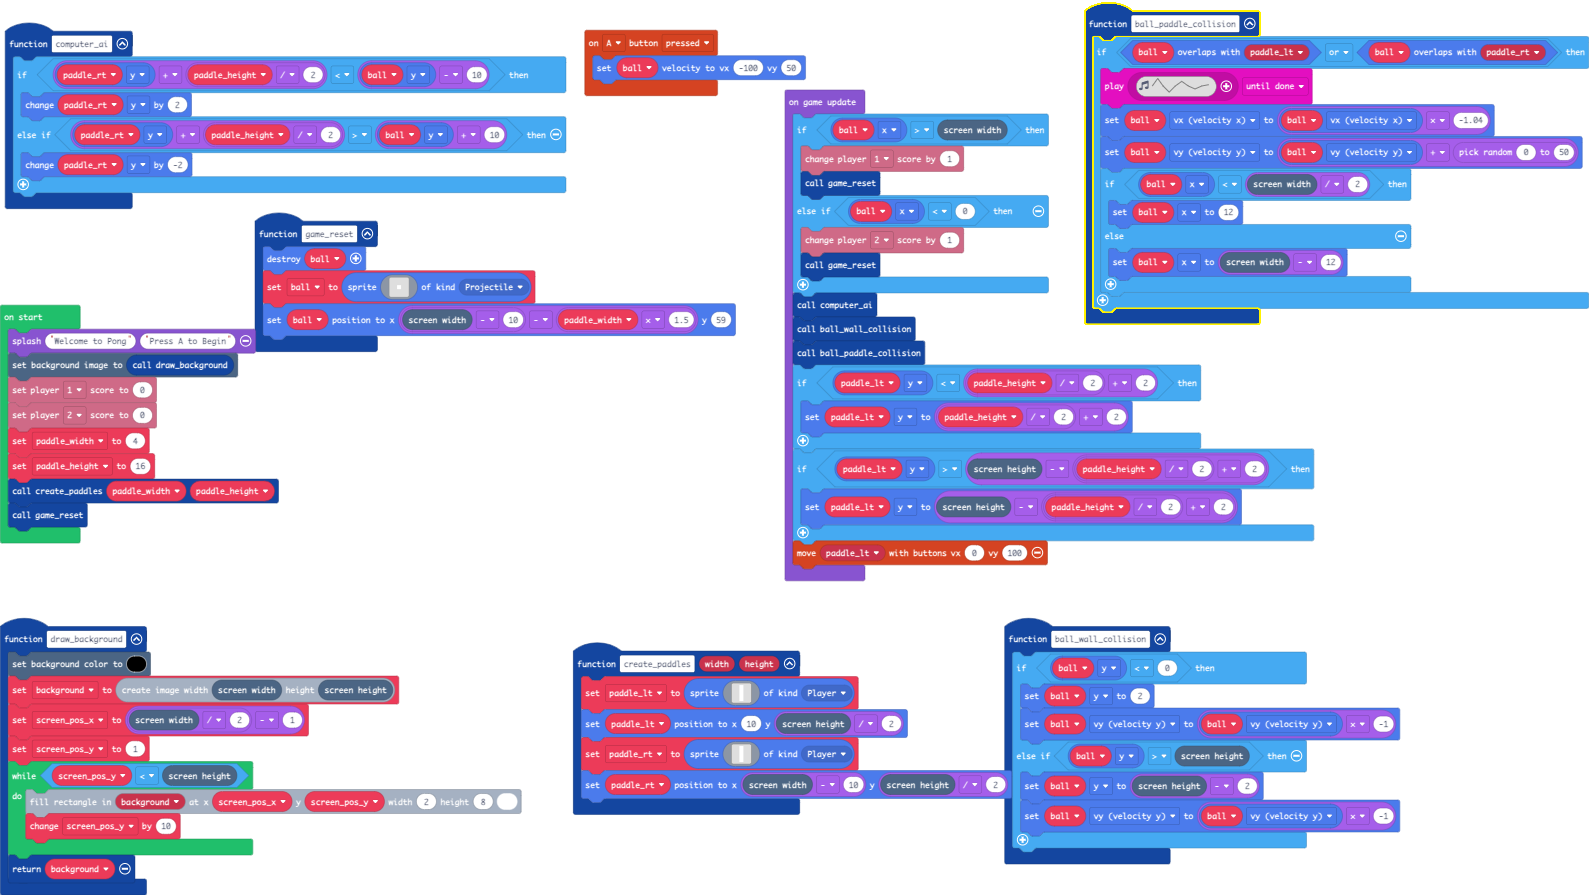
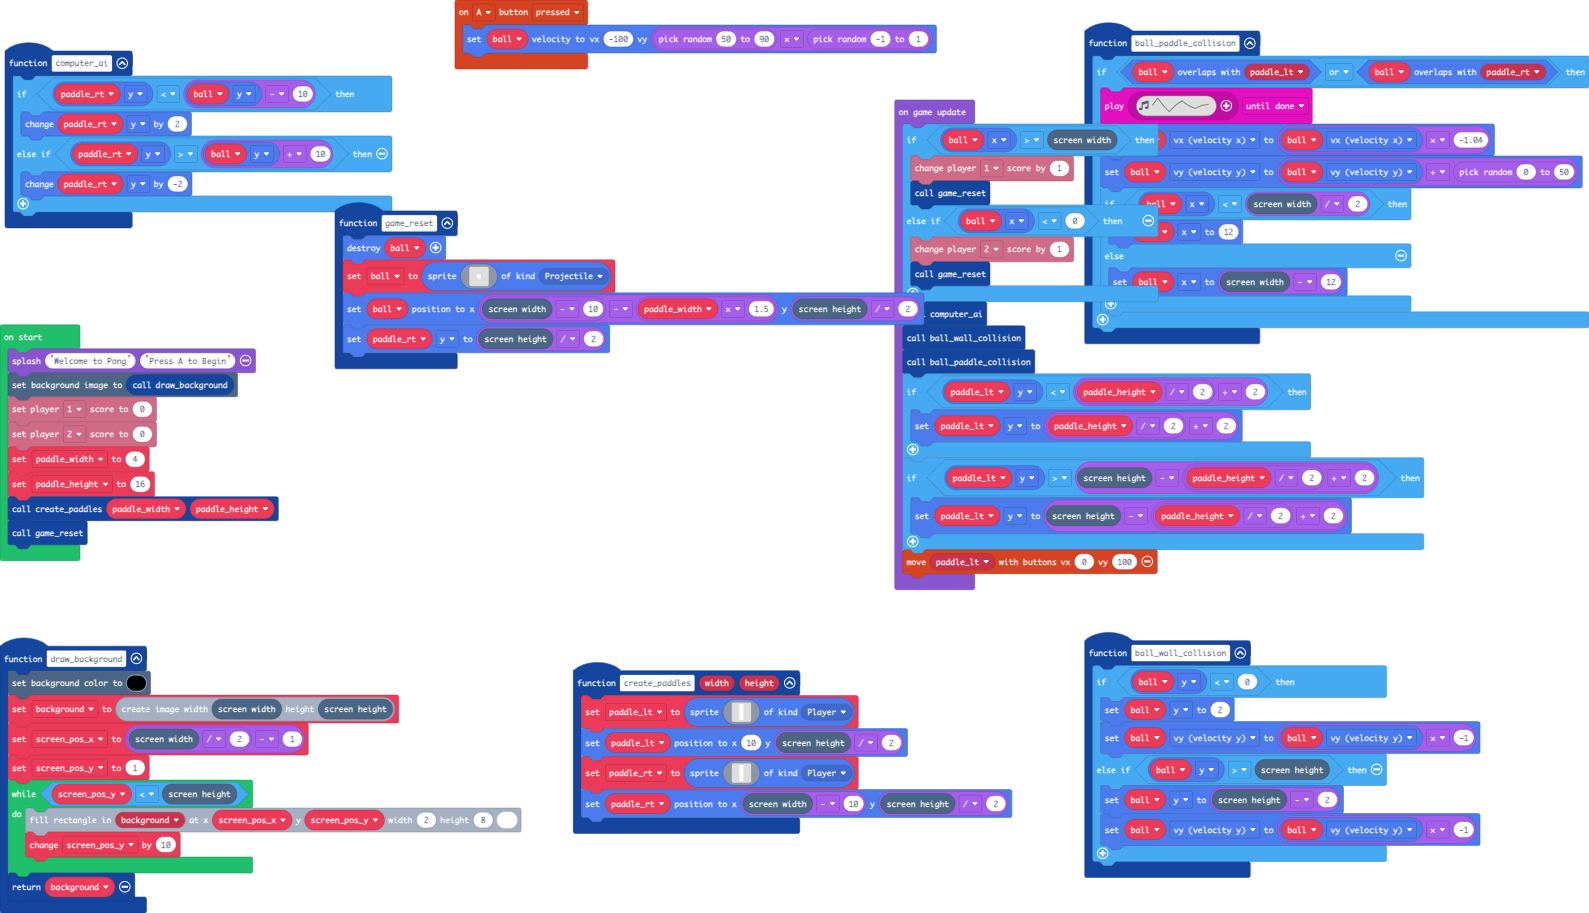
Updated AI. Fixed ball positioning upon reset.

diff --git a/main.ts b/main.ts
@@ -2,12 +2,12 @@ namespace SpriteKind {
     export const Environment = SpriteKind.create()
 }
 controller.A.onEvent(ControllerButtonEvent.Pressed, function () {
-    ball.setVelocity(-100, 50)
+    ball.setVelocity(-100, randint(50, 90) * randint(-1, 1))
 })
 function computer_ai () {
-    if (paddle_rt.y + paddle_height / 2 < ball.y - 10) {
+    if (paddle_rt.y < ball.y - 10) {
         paddle_rt.y += 2
-    } else if (paddle_rt.y + paddle_height / 2 > ball.y + 10) {
+    } else if (paddle_rt.y > ball.y + 10) {
         paddle_rt.y += -2
     }
 }
@@ -52,7 +52,8 @@ function ball_wall_collision () {
 function game_reset () {
     sprites.destroy(ball)
     ball = sprites.create(assets.image`ball`, SpriteKind.Projectile)
-    ball.setPosition(scene.screenWidth() - 10 - paddle_width * 1.5, 59)
+    ball.setPosition(scene.screenWidth() - 10 - paddle_width * 1.5, scene.screenHeight() / 2)
+    paddle_rt.y = scene.screenHeight() / 2
 }
 let paddle_lt: Sprite = null
 let screen_pos_y = 0
@@ -60,14 +61,13 @@ let screen_pos_x = 0
 let background: Image = null
 let paddle_rt: Sprite = null
 let ball: Sprite = null
-let paddle_height = 0
 let paddle_width = 0
 game.splash("Welcome to Pong", "Press A to Begin")
 scene.setBackgroundImage(draw_background())
 info.player1.setScore(0)
 info.player2.setScore(0)
 paddle_width = 4
-paddle_height = 16
+let paddle_height = 16
 create_paddles(paddle_width, paddle_height)
 game_reset()
 game.onUpdate(function () {
